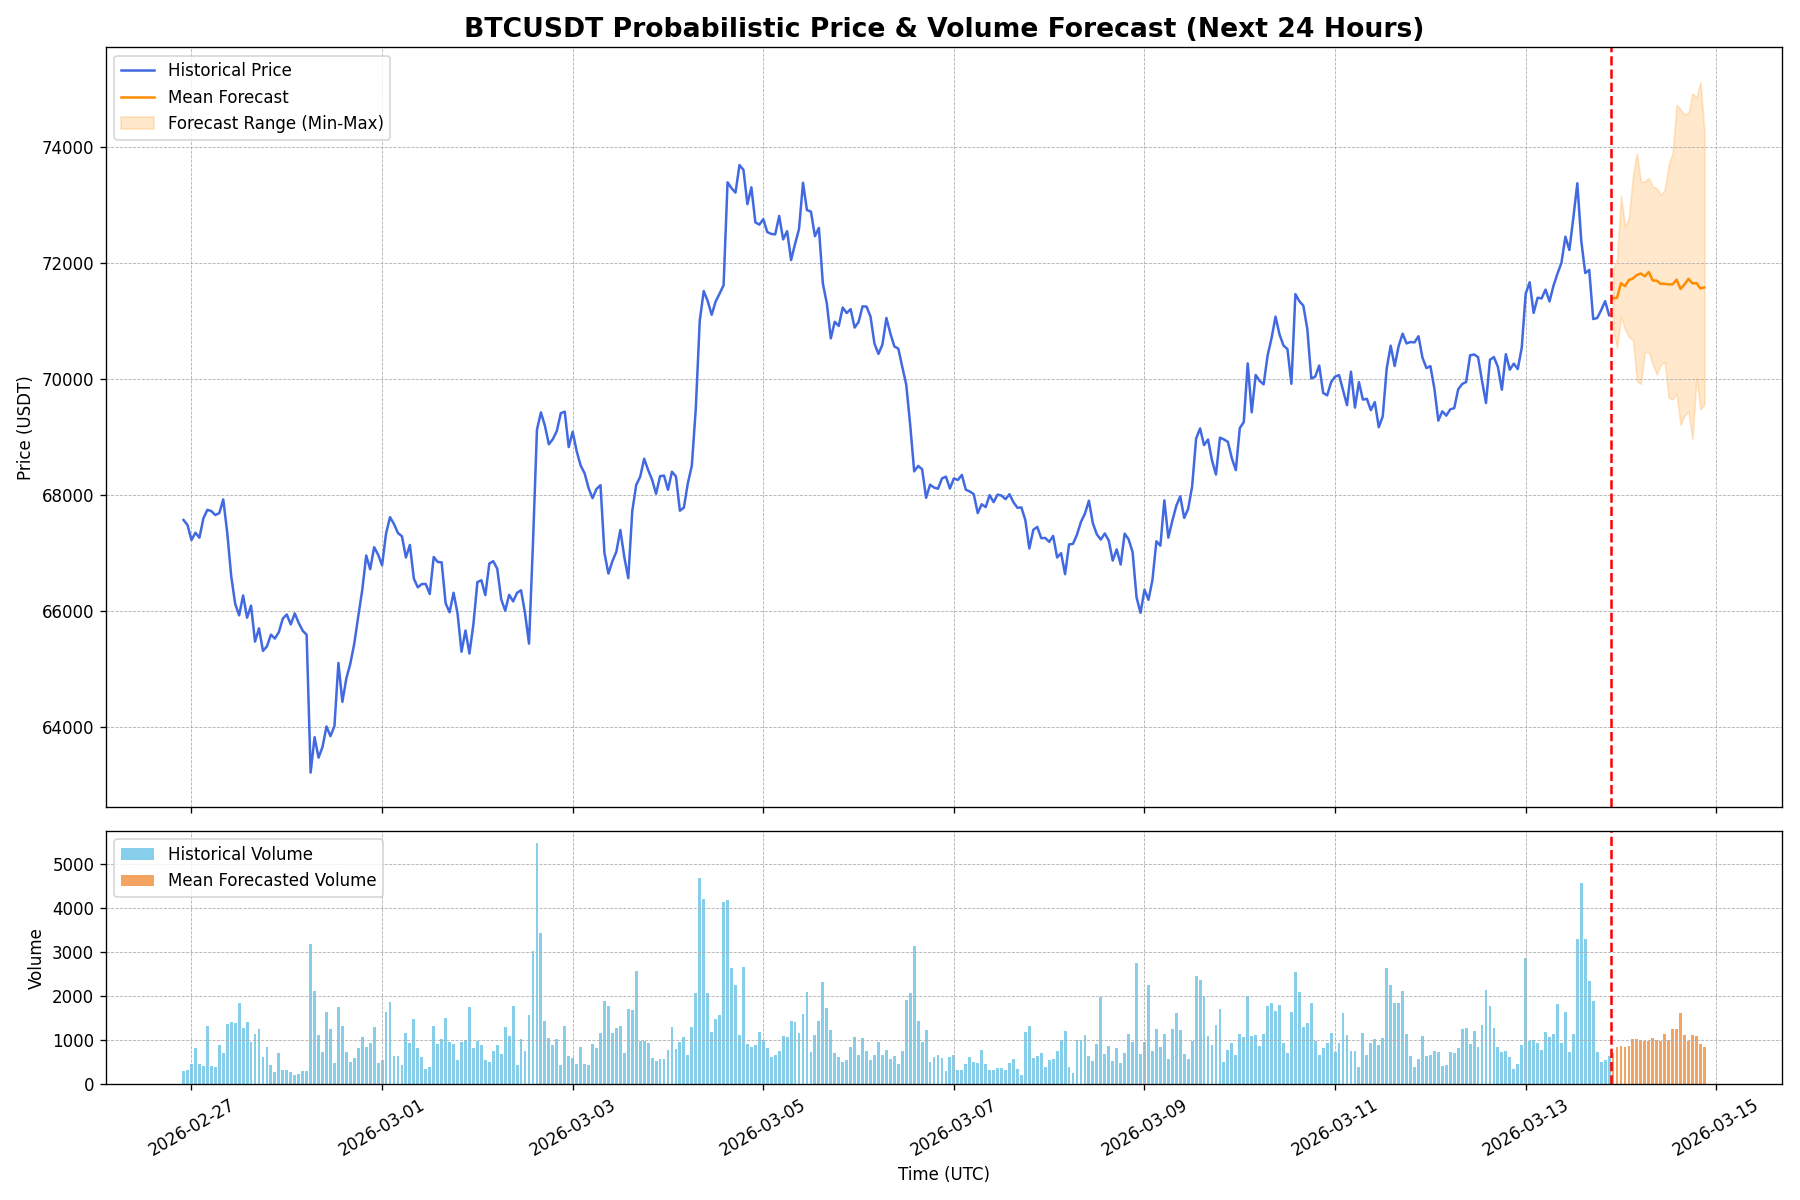
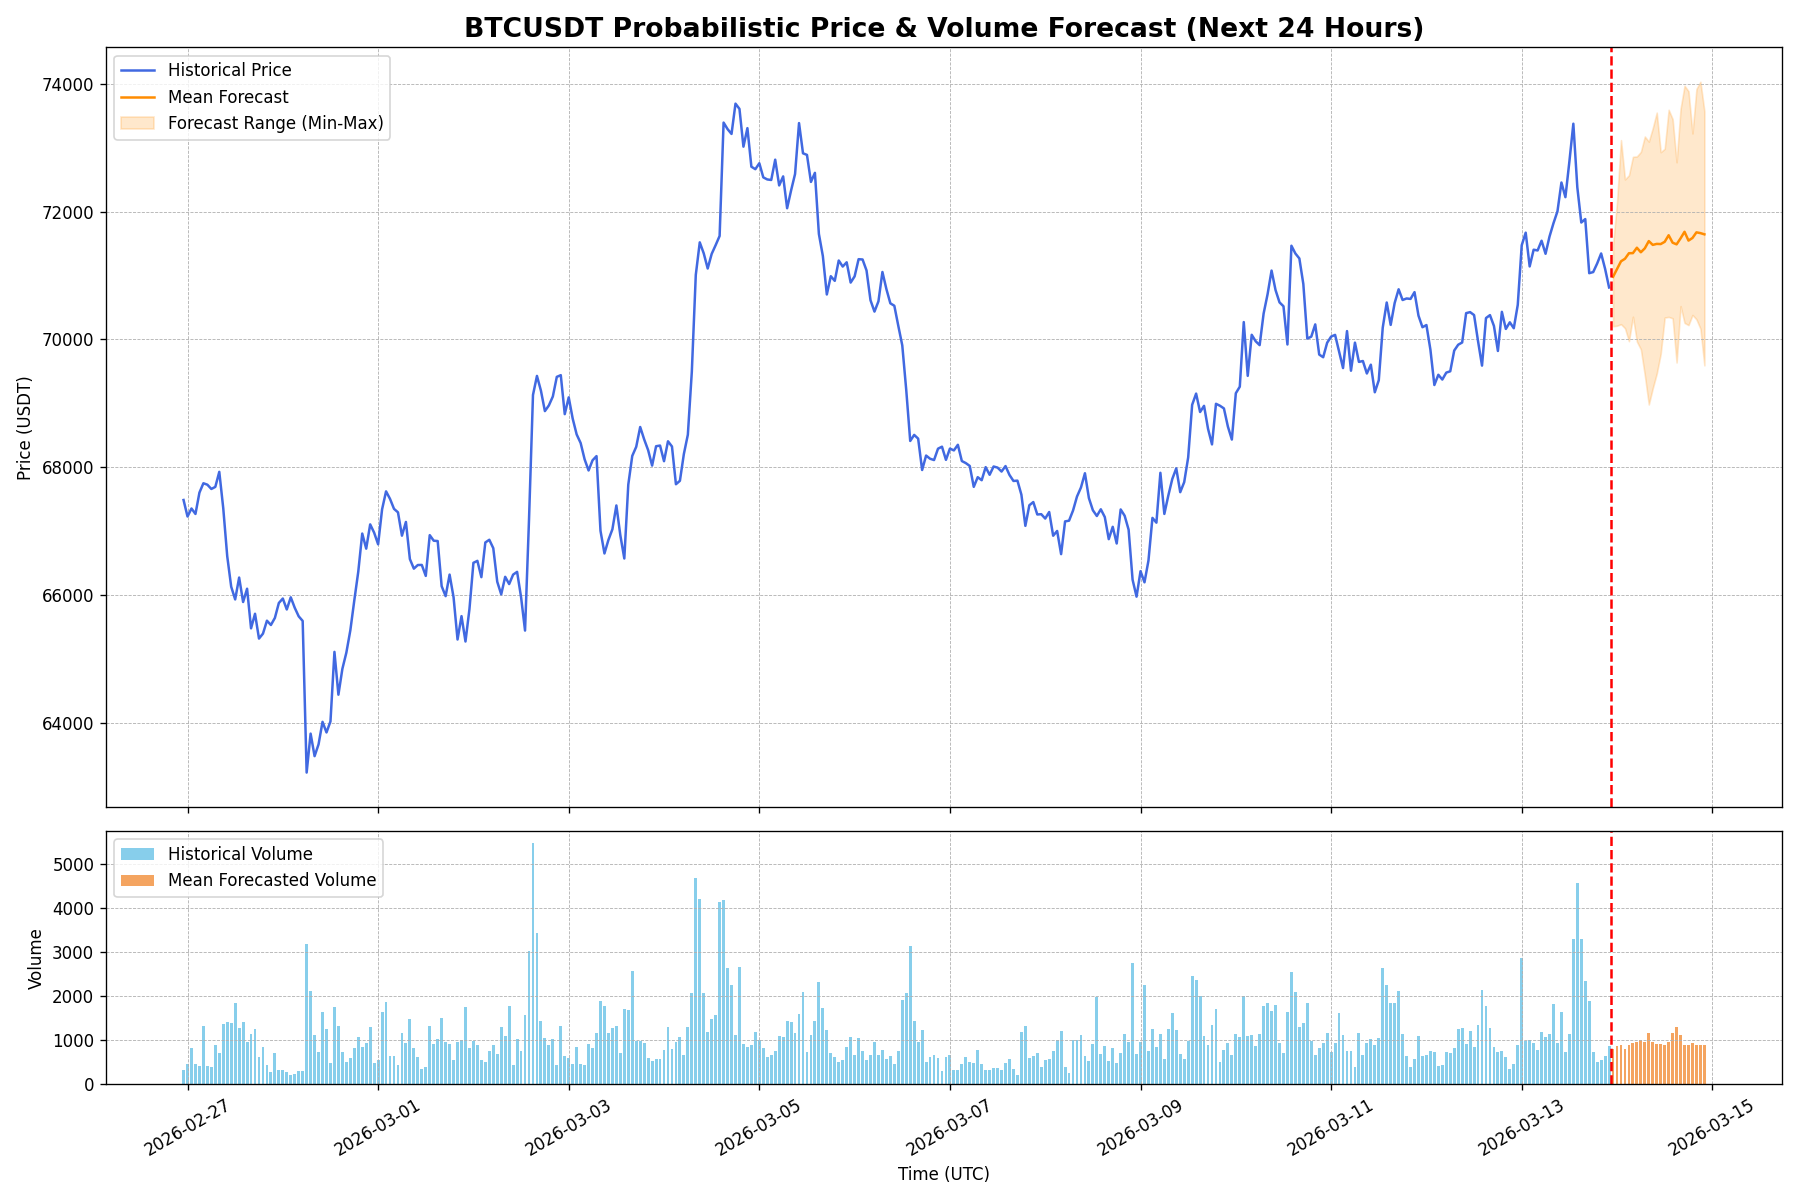
Auto-update forecast for 2026-03-13 23:00 UTC

diff --git a/index.html b/index.html
@@ -22,19 +22,19 @@
         <section id="live-dashboard">
             <h2>Live BTC/USDT Forecast Dashboard</h2>
             <div class="metadata">
-                <span>Last Updated (UTC): <strong id="update-time">2026-03-13 22:00:25</strong></span>
+                <span>Last Updated (UTC): <strong id="update-time">2026-03-13 23:00:25</strong></span>
                 <span>Data Source: Binance | Interval: 1-Hour</span>
             </div>
 
             <div class="metrics-container">
                 <div class="metric-card">
                     <h3>Upside Probability (Next 24h)</h3>
-                    <p class="metric-value" id="upside-prob">80.0%</p>
+                    <p class="metric-value" id="upside-prob">83.3%</p>
                     <div class="metric-desc">The model's confidence that the price in 24 hours will be higher than the last known price.</div>
                 </div>
                 <div class="metric-card">
                     <h3>Volatility Amplification (Next 24h)</h3>
-                    <p class="metric-value" id="vol-amp-prob">20.0%</p>
+                    <p class="metric-value" id="vol-amp-prob">23.3%</p>
                     <div class="metric-desc">The probability that predicted volatility over the next 24h will exceed recent historical volatility.</div>
                 </div>
             </div>
